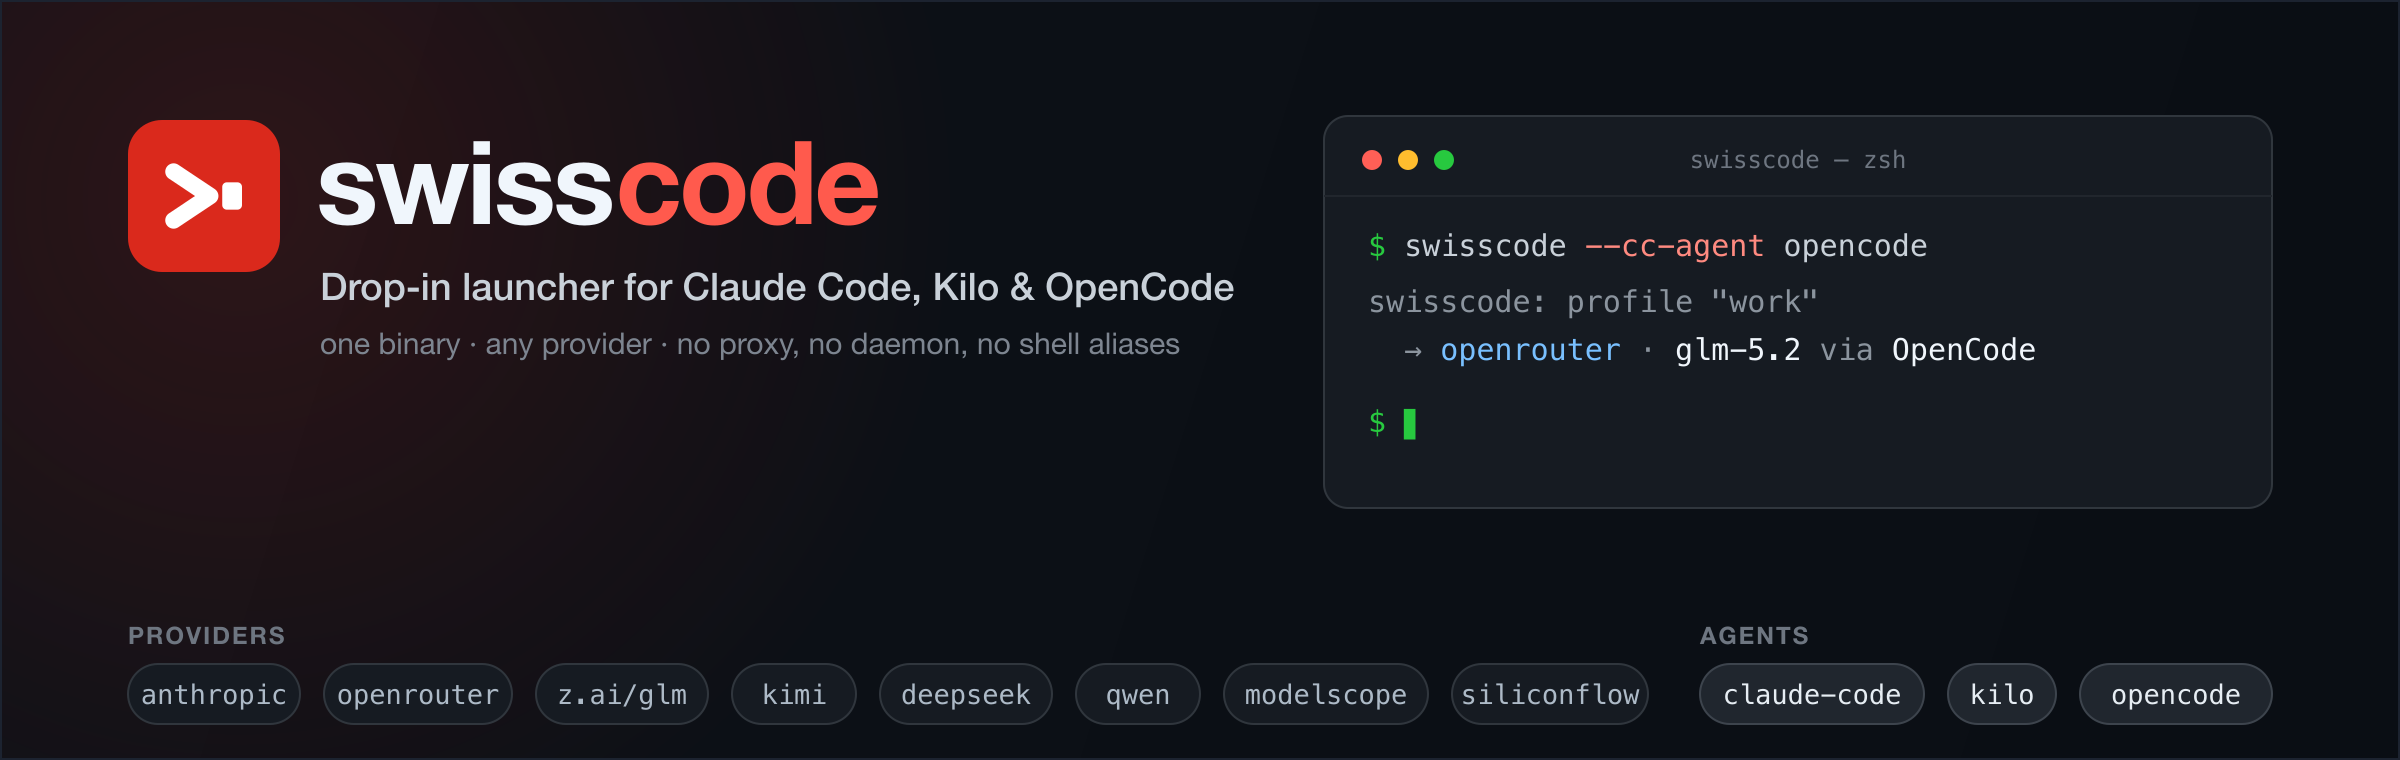
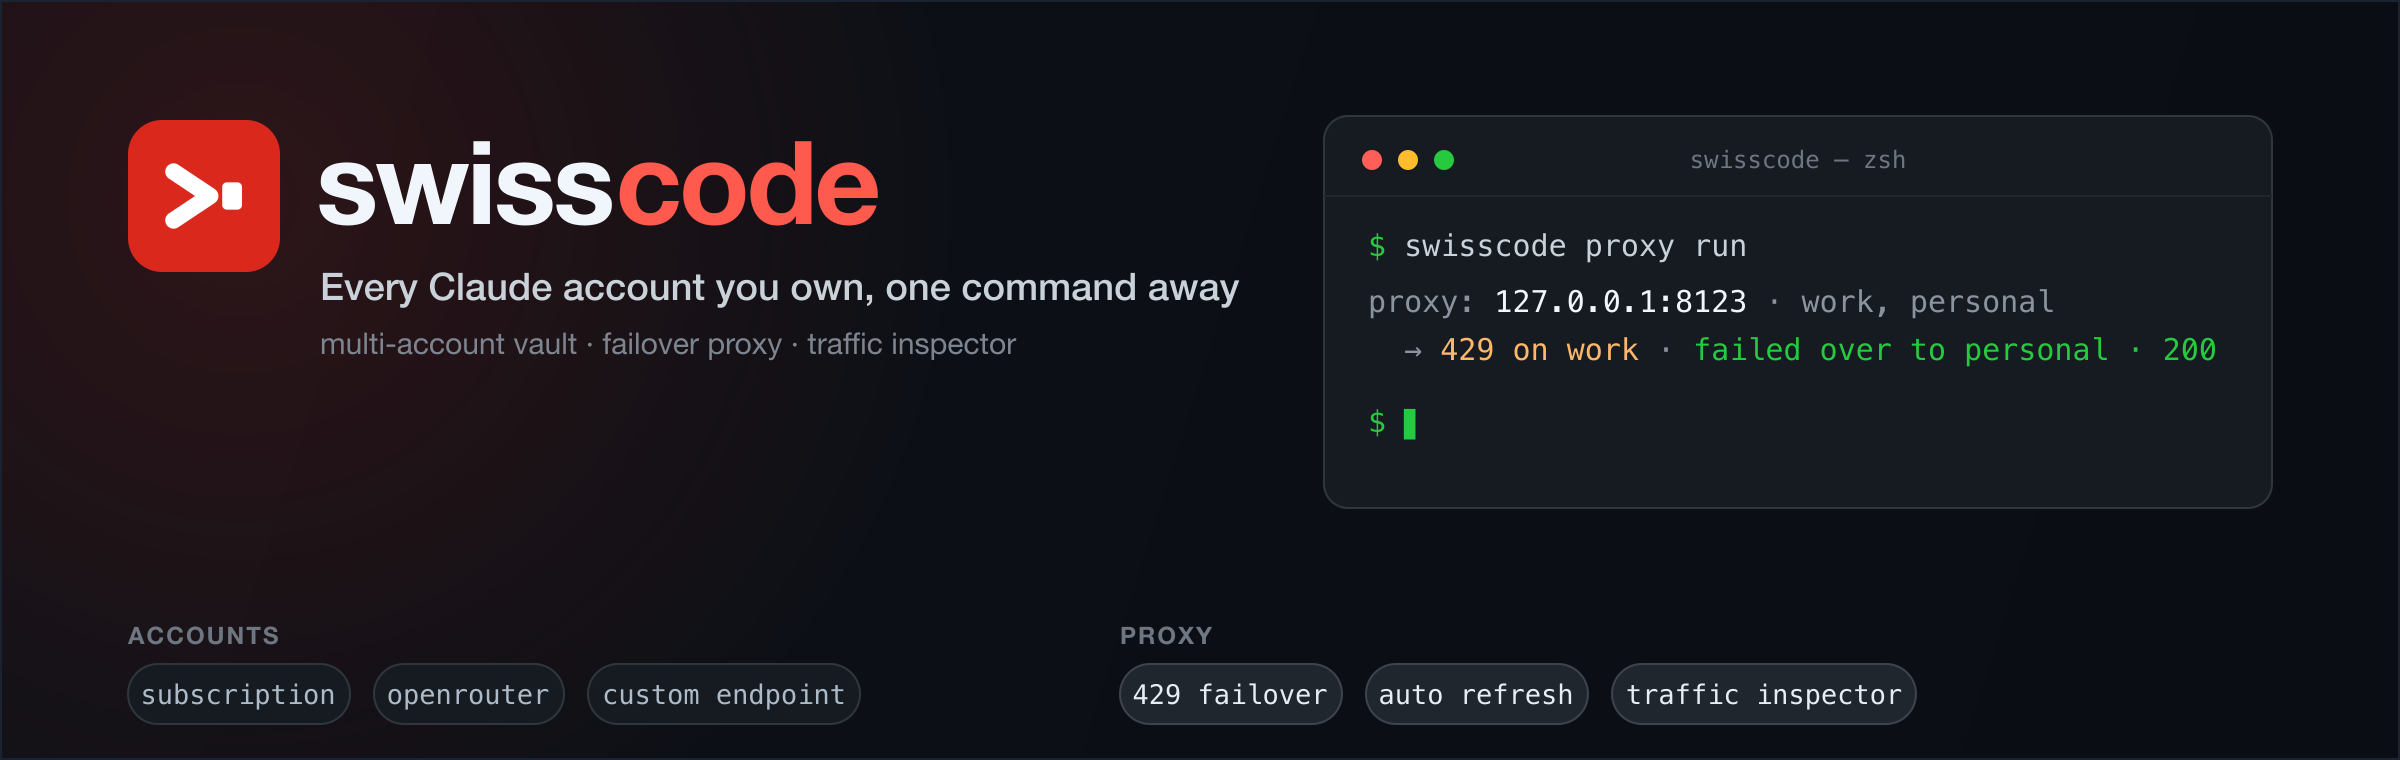
README storefront: v2 hero/social art, proxy failover diagram, npm badges, install from npm

diff --git a/README.md b/README.md
@@ -1,7 +1,13 @@
+<p align="center">
+  <img src="https://raw.githubusercontent.com/jellologic/swisscode/main/assets/hero.png" alt="swisscode — every Claude Pro and Max account you own, one command away: multi-account vault, rate-limit failover proxy, traffic inspector" width="100%">
+</p>
+
 # swisscode — run Claude Code with multiple accounts, a rate-limit failover proxy, and any Anthropic-compatible provider
 
 <p align="center">
   <a href="https://github.com/jellologic/swisscode/actions/workflows/ci.yml"><img src="https://github.com/jellologic/swisscode/actions/workflows/ci.yml/badge.svg" alt="CI status"></a>
+  <a href="https://www.npmjs.com/package/swisscode"><img src="https://img.shields.io/npm/v/swisscode?logo=npm&logoColor=white" alt="npm version"></a>
+  <img src="https://img.shields.io/npm/dm/swisscode" alt="npm monthly downloads">
   <img src="https://img.shields.io/badge/node-%3E%3D22-5fa04e?logo=node.js&logoColor=white" alt="Node.js 22 or newer">
   <img src="https://img.shields.io/badge/license-MIT-3da639" alt="MIT license">
   <img src="https://img.shields.io/badge/runs%20on-macOS%20%7C%20Linux-8957e5" alt="macOS and Linux">
@@ -58,8 +64,12 @@ and it looks to Anthropic exactly like Claude Code itself.
 
 ## Quick start
 
-swisscode v2 is not yet published to npm (`npm i -g swisscode` installs the older
-0.6.x line). Build from source:
+```sh
+npm i -g swisscode
+```
+
+Requires Node.js 22 or newer and an installed `claude` binary. To build from
+source instead:
 
 ```sh
 git clone https://github.com/jellologic/swisscode.git
@@ -125,6 +135,10 @@ A profile with `"useProxy": true` sets `ANTHROPIC_BASE_URL` to the proxy and tag
 `ANTHROPIC_AUTH_TOKEN` with `swisscode-profile/<name>`. That tag is an attribution
 marker, not a secret: the proxy strips it and signs the upstream request with the vault
 token. Existing `claude` sessions are untouched.
+
+<p align="center">
+  <img src="https://raw.githubusercontent.com/jellologic/swisscode/main/assets/proxy-flow.png" alt="How the swisscode proxy fails over: Claude Code sends requests to localhost:8123, the proxy signs with the work account, and on a 429 rate limit retries automatically with the personal account while the exhausted account cools down" width="100%">
+</p>
 
 What the proxy does per request:
 
